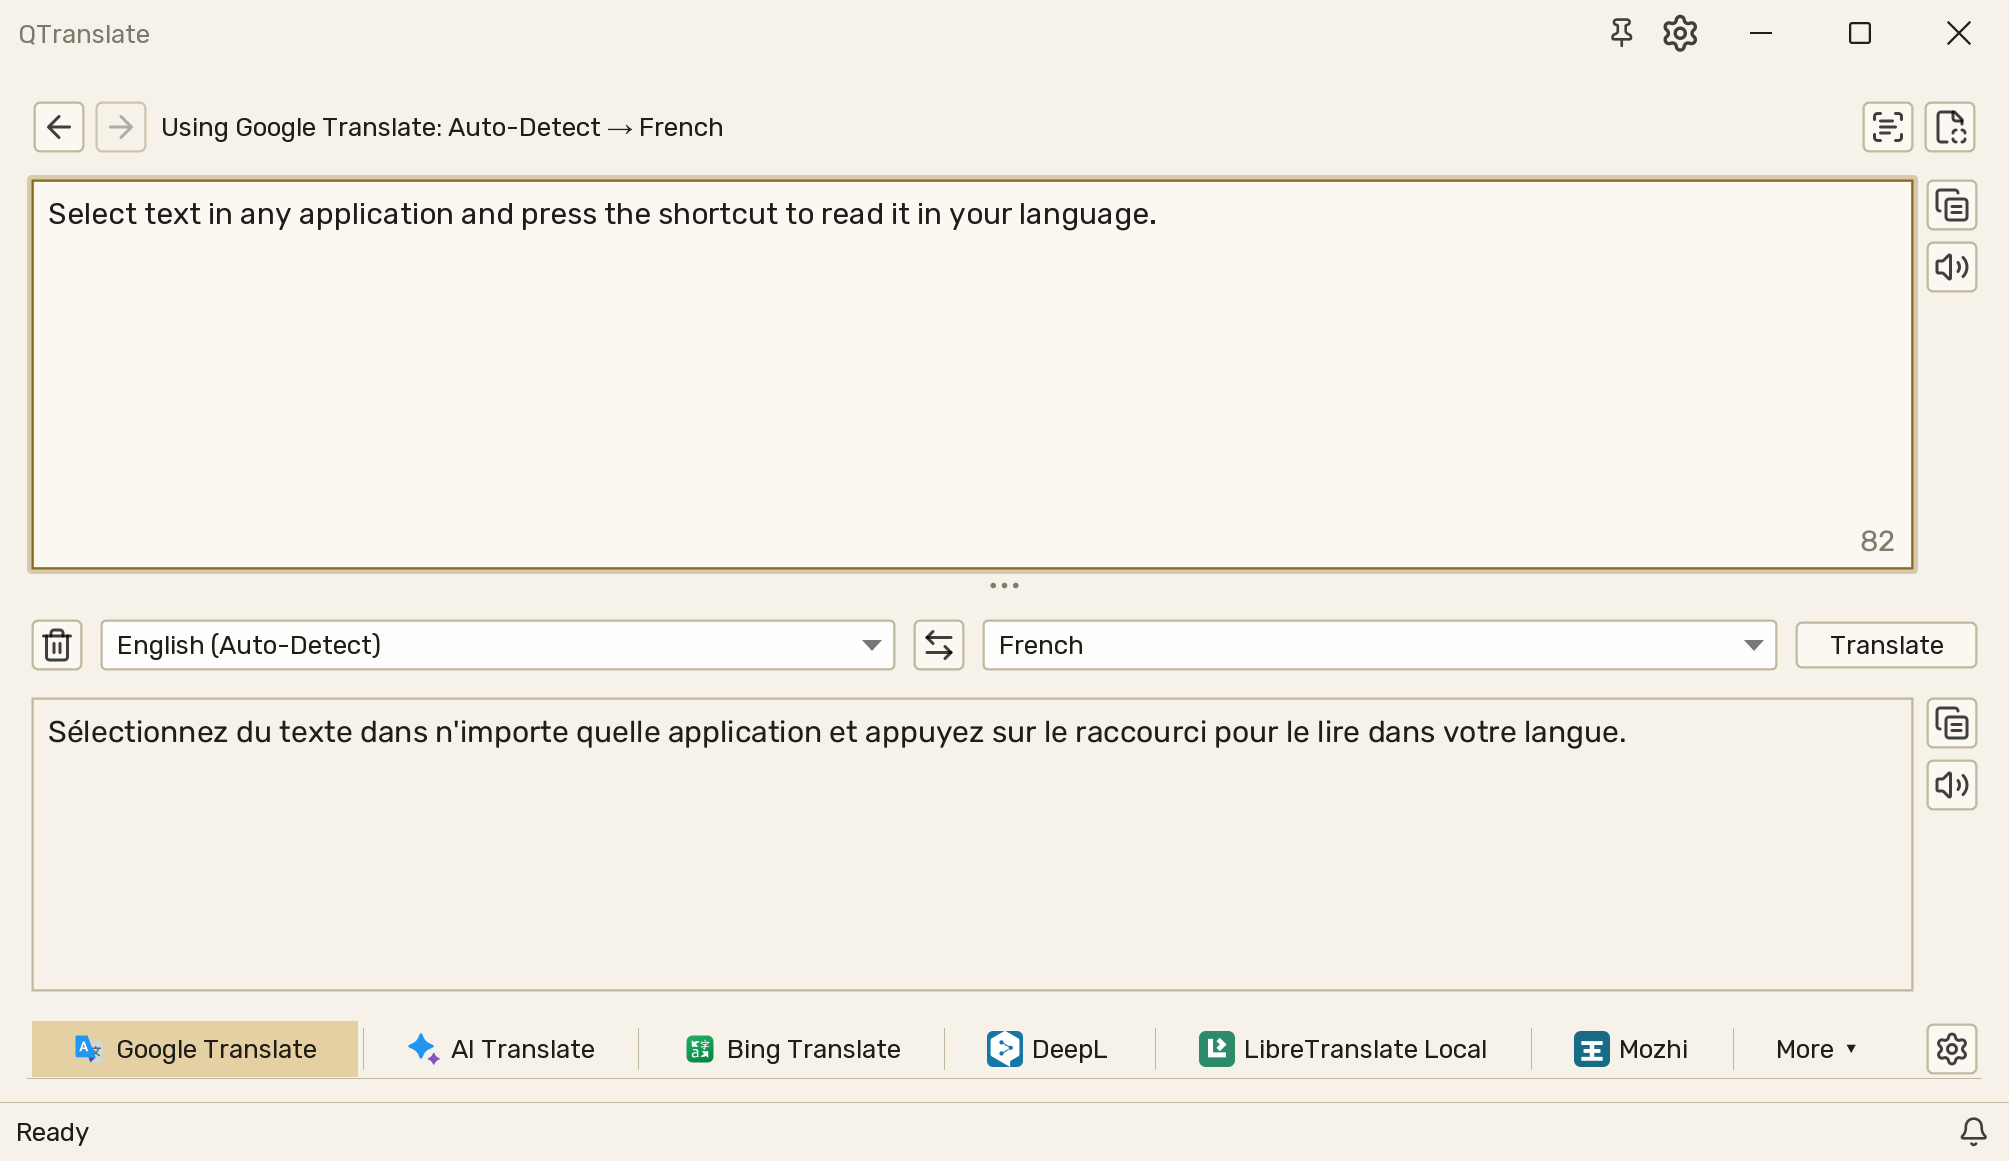
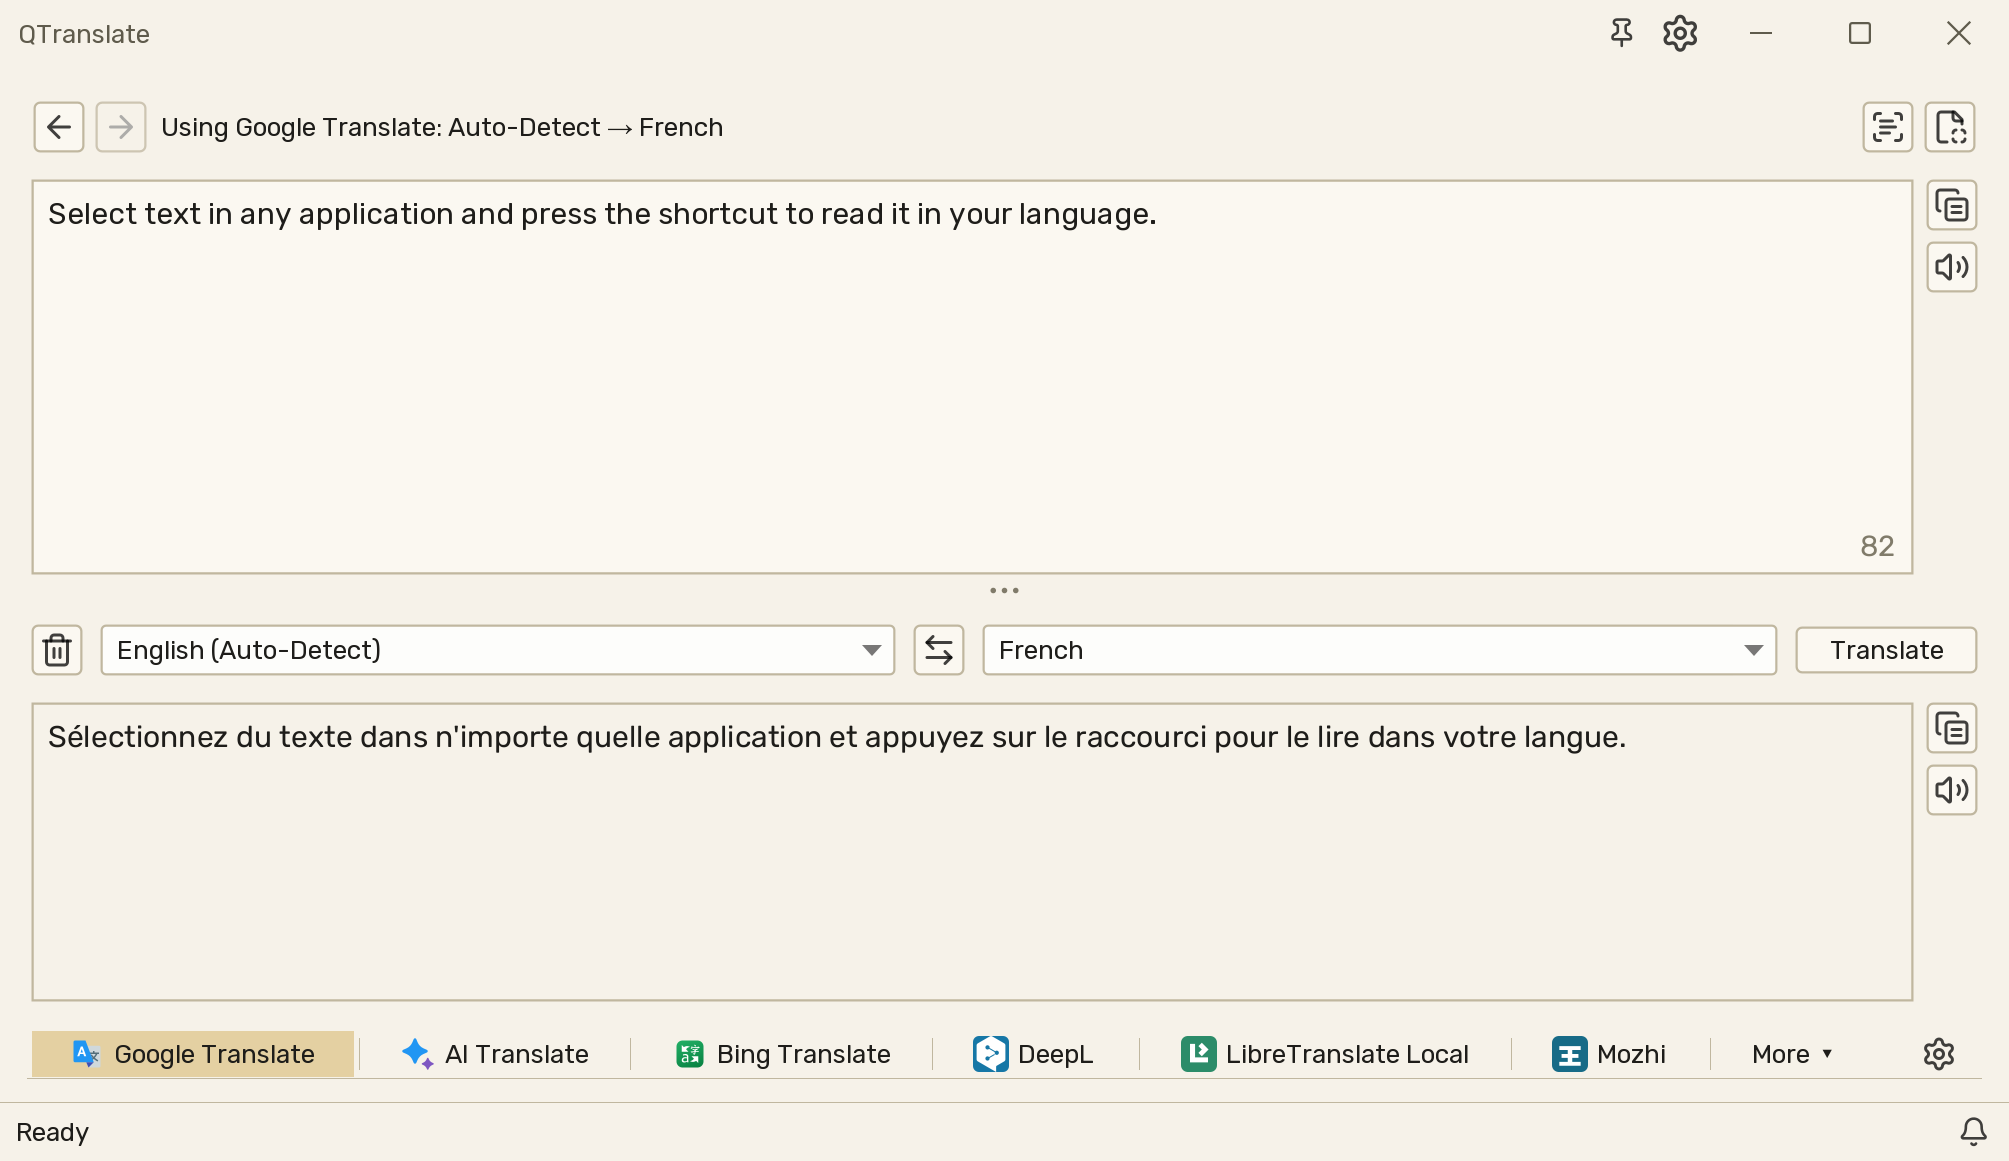
Restore plain Classic selector gear

diff --git a/ui-swing/src/main/kotlin/com/github/ahatem/qtranslate/ui/swing/main/selector/TranslatorSelector.kt b/ui-swing/src/main/kotlin/com/github/ahatem/qtranslate/ui/swing/main/selector/TranslatorSelector.kt
@@ -7,7 +7,6 @@ import com.github.ahatem.qtranslate.core.settings.data.ServiceSelectorAppearance
 import com.github.ahatem.qtranslate.core.settings.data.ServiceSelectorStyle
 import com.github.ahatem.qtranslate.api.plugin.ServiceRole
 import com.github.ahatem.qtranslate.ui.swing.shared.icon.IconManager
-import com.github.ahatem.qtranslate.ui.swing.shared.util.createButtonWithIcon
 import com.github.ahatem.qtranslate.ui.swing.shared.widgets.Renderable
 import java.awt.*
 import java.awt.event.ComponentAdapter
@@ -50,7 +49,10 @@ class TranslatorSelector(
         toolTipText = "All services"
         addActionListener { showOverflowMenu(this) }
     }
-    private val configureActive = createButtonWithIcon(iconManager, Icons.SETTINGS, 16).apply {
+    private val configureActive = JButton(iconManager.getIcon(Icons.SETTINGS, 16, 16)).apply {
+        putClientProperty(FlatClientProperties.BUTTON_TYPE, "toolBarButton")
+        putClientProperty(FlatClientProperties.STYLE, "arc: 0")
+        margin = compactButtonMargin()
         toolTipText = "Configure active translation service"
         addActionListener { activeServiceId?.let(onConfigureService) }
     }
